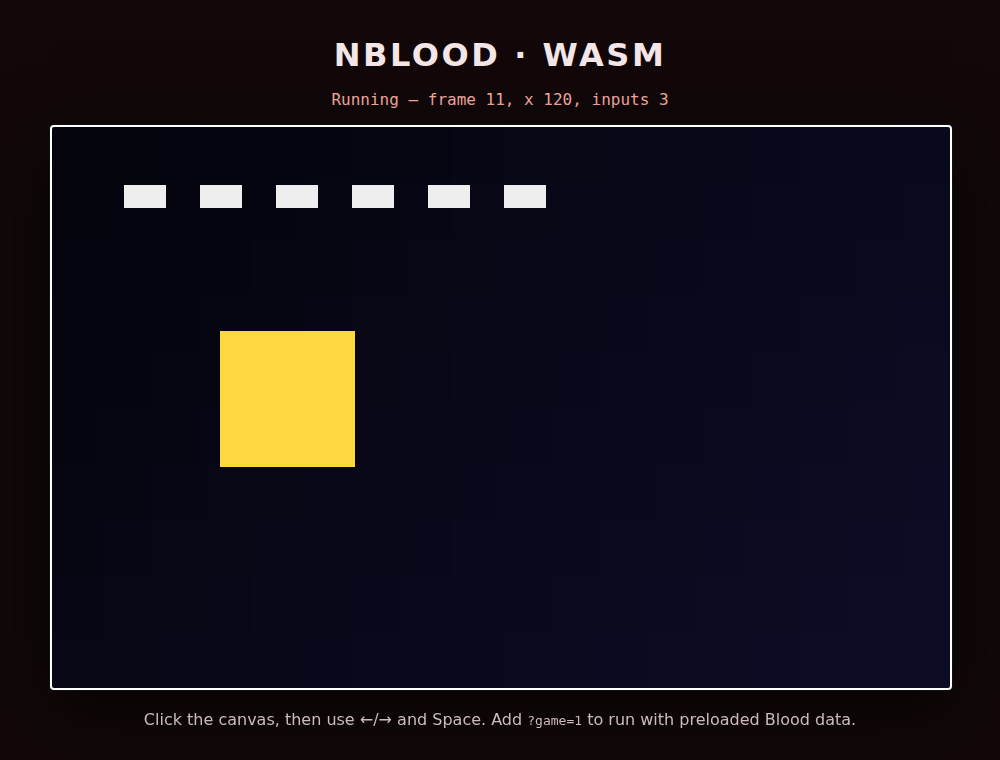
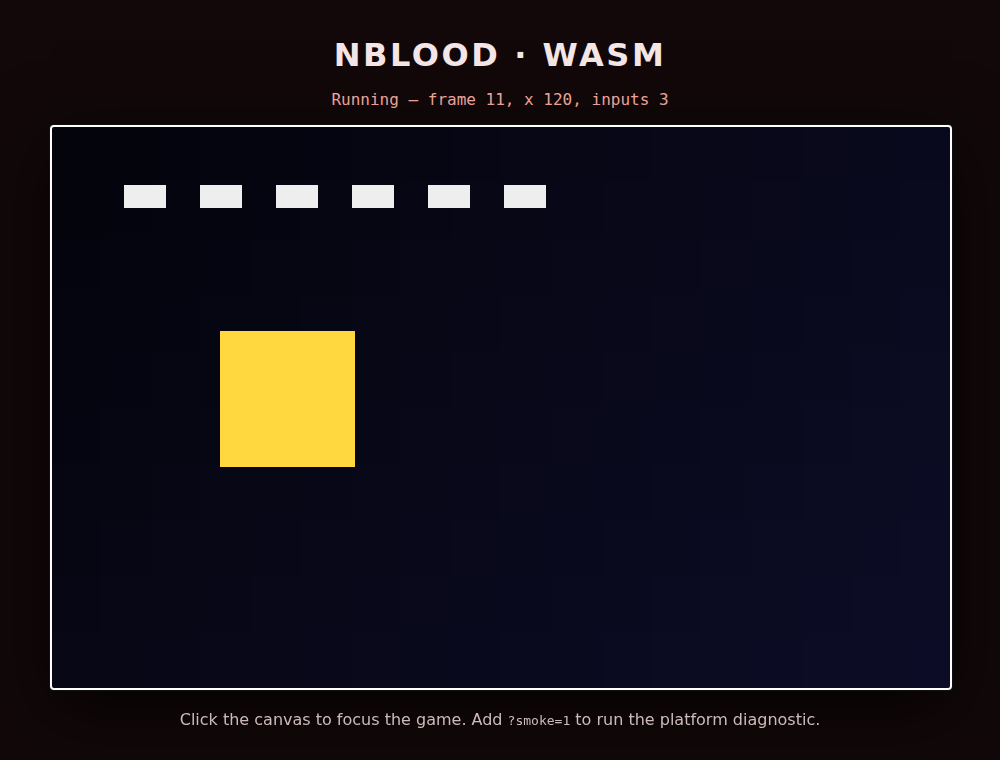
Fix Chrome WASM gameplay input

Changed region(s): [[0.155, 0.9382, 0.868, 0.9684]]

diff --git a/platform/wasm/index.html b/platform/wasm/index.html
@@ -26,6 +26,32 @@
     const canvas = document.getElementById('canvas');
     const status = document.getElementById('status');
     const assetVersion = '__ASSET_VERSION__';
+    let keyboardBridgeEnabled = false;
+    const scanCodes = {
+      Escape: 0x01, Digit1: 0x02, Digit2: 0x03, Digit3: 0x04, Digit4: 0x05,
+      Digit5: 0x06, Digit6: 0x07, Digit7: 0x08, Digit8: 0x09, Digit9: 0x0a,
+      Digit0: 0x0b, Backspace: 0x0e, Tab: 0x0f, KeyQ: 0x10, KeyW: 0x11,
+      KeyE: 0x12, KeyR: 0x13, KeyT: 0x14, KeyY: 0x15, KeyU: 0x16,
+      KeyI: 0x17, KeyO: 0x18, KeyP: 0x19, Enter: 0x1c, ControlLeft: 0x1d,
+      KeyA: 0x1e, KeyS: 0x1f, KeyD: 0x20, KeyF: 0x21, KeyG: 0x22,
+      KeyH: 0x23, KeyJ: 0x24, KeyK: 0x25, KeyL: 0x26, ShiftLeft: 0x2a,
+      KeyZ: 0x2c, KeyX: 0x2d, KeyC: 0x2e, KeyV: 0x2f, KeyB: 0x30,
+      KeyN: 0x31, KeyM: 0x32, ShiftRight: 0x36, AltLeft: 0x38, Space: 0x39,
+      F1: 0x3b, F2: 0x3c, F3: 0x3d, F4: 0x3e, F5: 0x3f, F6: 0x40,
+      F7: 0x41, F8: 0x42, F9: 0x43, F10: 0x44, F11: 0x57, F12: 0x58,
+      ControlRight: 0x9d, AltRight: 0xb8, Home: 0xc7, ArrowUp: 0xc8,
+      PageUp: 0xc9, ArrowLeft: 0xcb, ArrowRight: 0xcd, End: 0xcf,
+      ArrowDown: 0xd0, PageDown: 0xd1, Insert: 0xd2, Delete: 0xd3
+    };
+    const bridgeKey = (event, pressed) => {
+      const scanCode = scanCodes[event.code];
+      if (!keyboardBridgeEnabled || scanCode === undefined || typeof Module._wasmInjectKey !== 'function') return;
+      Module._wasmInjectKey(scanCode, pressed ? 1 : 0);
+      event.preventDefault();
+      event.stopImmediatePropagation();
+    };
+    addEventListener('keydown', event => bridgeKey(event, true), true);
+    addEventListener('keyup', event => bridgeKey(event, false), true);
     canvas.addEventListener('click', () => canvas.focus());
     var Module = {
       noInitialRun: true,
@@ -45,9 +71,10 @@
       },
       onRuntimeInitialized() {
         const smokeMode = new URLSearchParams(location.search).has('smoke');
+        keyboardBridgeEnabled = !smokeMode;
         status.textContent = smokeMode ? 'Starting platform probe…' : 'Starting NBlood…';
         canvas.focus();
-        Module.callMain(smokeMode ? ['--wasm-smoke-test'] : []);
+        Module.callMain(smokeMode ? ['--wasm-smoke-test'] : ['-nodemo']);
       }
     };
   </script>

diff --git a/source/build/src/baselayer.cpp b/source/build/src/baselayer.cpp
@@ -9,6 +9,10 @@
 #include "polymost.h"
 #include "renderlayer.h"
 
+#ifdef __EMSCRIPTEN__
+# include <emscripten.h>
+#endif
+
 #define MINICORO_IMPL
 #define MCO_LOG initprintf
 #define MCO_ASSERT Bassert
@@ -906,6 +910,12 @@ int engineFPSLimit(bool const throttle)
 
         return true;
     }
+
+#ifdef __EMSCRIPTEN__
+    // When a frame is not ready, native builds can spin until the timer advances.
+    // A browser must yield here so input, timers, and painting can make progress.
+    emscripten_sleep(0);
+#endif
 
     return false;
 }

diff --git a/source/blood/src/wasm.cpp b/source/blood/src/wasm.cpp
@@ -1,10 +1,17 @@
 #ifdef __EMSCRIPTEN__
 
+#include "baselayer.h"
 #include "sdl_inc.h"
 
 #include <emscripten.h>
 #include <stdint.h>
 #include <stdlib.h>
+
+extern "C" EMSCRIPTEN_KEEPALIVE void wasmInjectKey(int scanCode, int pressed)
+{
+    if ((unsigned)scanCode < NUMKEYS)
+        keySetState(scanCode, pressed != 0);
+}
 
 int wasmSmokeMain(void)
 {

diff --git a/platform/wasm/README.md b/platform/wasm/README.md
@@ -15,4 +15,9 @@ For the automated browser test:
 cd platform/wasm
 npm install
 npm test
+npm run test:game
 ```
+
+`test:game` requires the Blood data files in `platform/wasm/assets`. It drives
+Chrome through the main, episode, and difficulty menus into a running level and
+writes the captured stages to `platform/wasm/artifacts/chrome-game-flow`.
